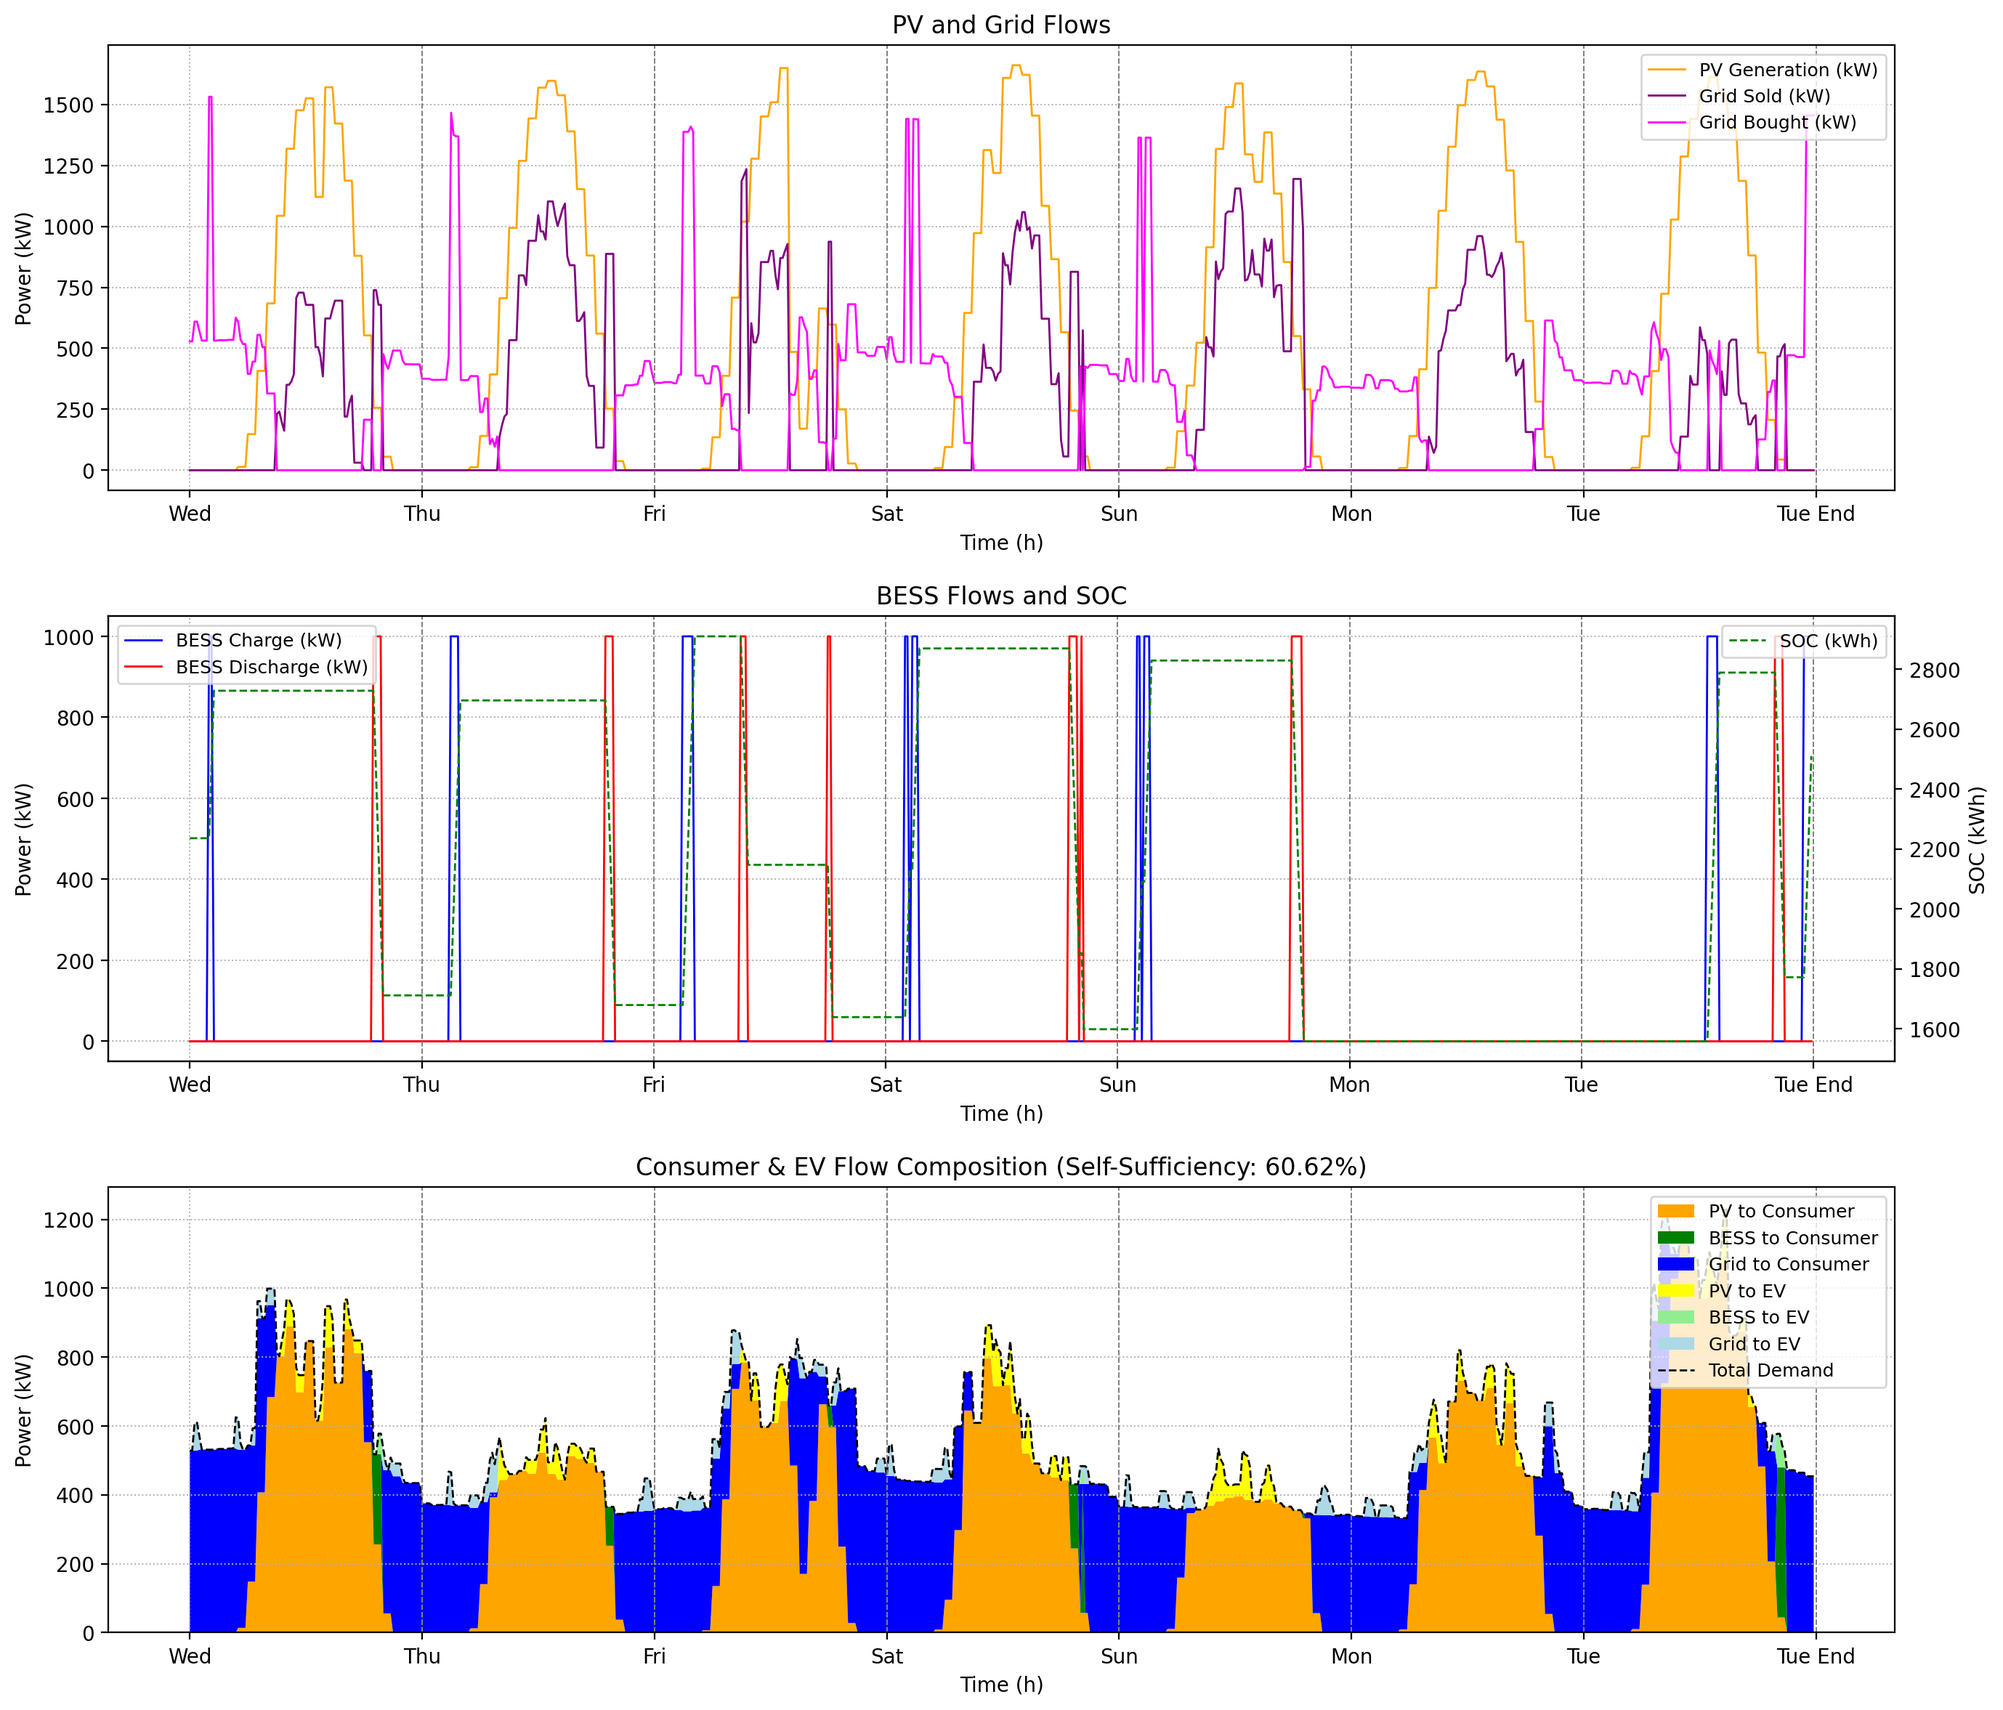
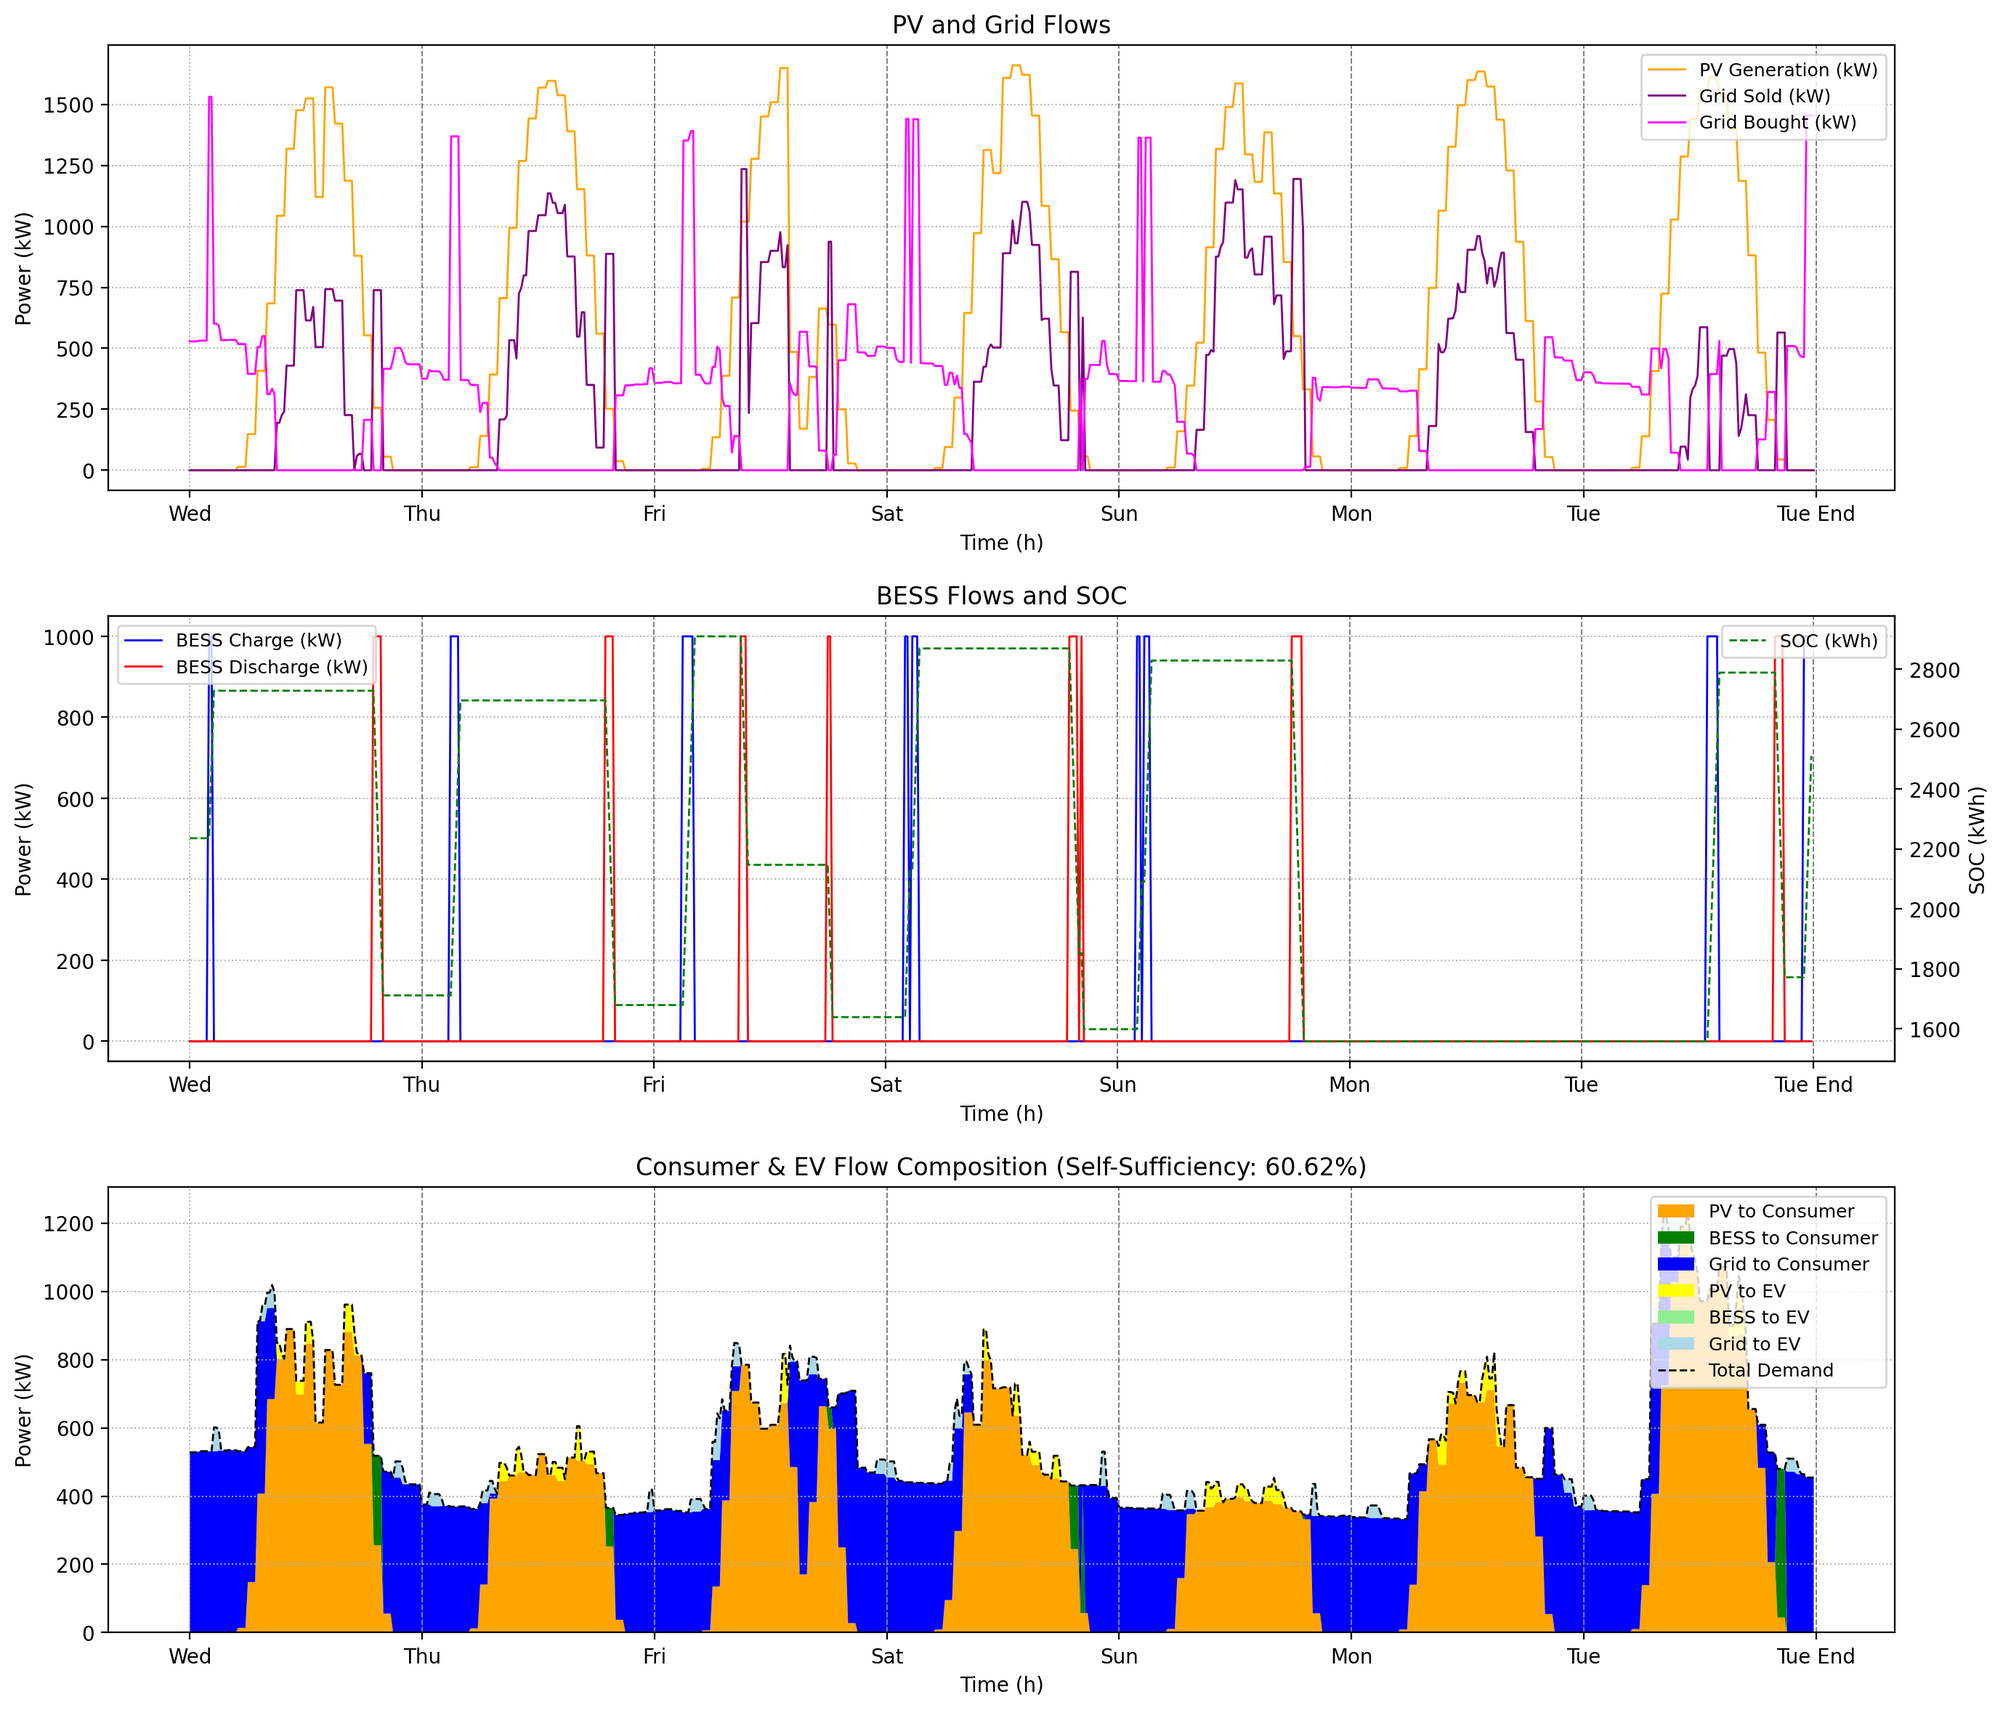
MPC still not working properly

diff --git a/Computing Files/Controller/mpc.py b/Computing Files/Controller/mpc.py
@@ -26,9 +26,10 @@ class MPC:
         self.soc_initial = params['SOC_Initial']
         self.delta_t = delta_t
         self.bess_percent_limit = params['BESS_limit']
-        self.converter_efficiency = params.get('CONVERTER_EFFICIENCY', 0.98)
-        # Damper coefficient (€/kW-change) for smoothing power transitions (from constants; default 0.01 if missing)
-        self.damper_coefficient = params.get('DAMPER_COEFFICIENT', 0.01)
+        self.converter_efficiency = params.get('CONVERTER_EFFICIENCY')
+        # Damper coefficient (€/kW-change) for smoothing power transitions (from constants; default 0.001 if missing)
+        self.damper_coefficient = params.get('DAMPER_COEFFICIENT')
+
 
     def predict(self, soc, pv_forecast, demand_forecast, ev_forecast, buy_forecast, sell_forecast, lcoe_pv, pi_ev, pi_consumer, horizon, start_dt):
         # Use actual simulation start date for snapshots
@@ -53,11 +54,11 @@ class MPC:
         n.add("Bus", "BESS", carrier='DC')
 
         # PV generator (PV bus)
-        pv_nom = max(pv_forecast)
-        pv_max = np.max(pv_forecast)
-        if pv_max == 0:
-            pv_max = 1
-        n.add("Generator", "PV", bus="PV", p_nom=pv_nom, p_max_pu=pv_forecast/pv_max, marginal_cost=0)
+        pv_nom = np.max(pv_forecast)
+        if pv_nom == 0:
+            pv_nom = 1
+        p_max_pu = np.array(pv_forecast) / pv_nom
+        n.add("Generator", "PV", bus="PV", p_nom=pv_nom, p_max_pu=p_max_pu, marginal_cost=0)
 
         # BESS StorageUnit (BESS bus)
         if self.bess_power_limit > 0 and self.bess_capacity > 0:
@@ -70,10 +71,7 @@ class MPC:
                   state_of_charge_initial=soc)
 
         # Links between buses
-        # Charge BESS from AC side (so grid-to-BESS passes via AC)
         n.add("Link", "AC_to_BESS", bus0="AC", bus1="BESS", p_nom=self.bess_power_limit, efficiency=self.eta_charge, marginal_cost=0, carrier='AC')
-
-        n.add("Link", "PV_to_BESS", bus0="PV", bus1="BESS", p_nom=self.bess_power_limit, efficiency=self.eta_charge, marginal_cost=0, carrier='DC')
         n.add("Link", "BESS_to_AC", bus0="BESS", bus1="AC", p_nom=self.bess_power_limit, efficiency=self.eta_discharge, marginal_cost=0, carrier='AC')
         n.add("Link", "PV_to_AC", bus0="PV", bus1="AC", p_nom=pv_nom, efficiency=self.converter_efficiency, marginal_cost=0, carrier='AC')
 
@@ -88,23 +86,44 @@ class MPC:
         n.links_t.marginal_cost["Grid_Export"] = -pd.Series(sell_forecast, index=n.snapshots)
         n.generators_t.marginal_cost["Grid_Source"] = pd.Series(buy_forecast, index=n.snapshots)
 
+        # --- DEBUG: Print key marginal costs and link parameters ---
+        try:
+            print("PV marginal cost:", n.generators.loc["PV", "marginal_cost"])
+            print("Grid import marginal cost (first 5):", n.generators_t.marginal_cost["Grid_Source"].head())
+            print("Grid export marginal cost (first 5):", n.links_t.marginal_cost["Grid_Export"].head())
+            print("PV_to_AC link p_nom:", n.links.loc["PV_to_AC", "p_nom"], "efficiency:", n.links.loc["PV_to_AC", "efficiency"])
+            print("AC_to_BESS link p_nom:", n.links.loc["AC_to_BESS", "p_nom"], "efficiency:", n.links.loc["AC_to_BESS", "efficiency"])
+            print("BESS_to_AC link p_nom:", n.links.loc["BESS_to_AC", "p_nom"], "efficiency:", n.links.loc["BESS_to_AC", "efficiency"])
+            print("Initial SOC:", soc, "BESS capacity:", self.bess_capacity)
+        except Exception as e:
+            print(f"DEBUG print error: {e}")
+        # --- Mutual exclusivity for grid import/export ---
+        def add_mutual_exclusivity_constraint(network):
+            m = network.model
+            import pyomo.environ as po
+            m.grid_import_bin = po.Var(network.snapshots, within=po.Binary)
+            big_M_import = max_grid_import
+            big_M_export = max_grid_export
+            for t in network.snapshots:
+                m.add_constraint(m["Link-p"]["Grid_Import"][t] <= big_M_import * m.grid_import_bin[t],
+                                 name=f"GridImportBin_{t}")
+                m.add_constraint(m["Link-p"]["Grid_Export"][t] <= big_M_export * (1 - m.grid_import_bin[t]),
+                                 name=f"GridExportBin_{t}")
+
+        n.optimize.create_model()
+        try:
+            add_mutual_exclusivity_constraint(n)
+        except Exception as e:
+            print(f"Warning: Could not add grid import/export mutual exclusivity constraint: {e}")
+
         # Loads: keep Consumer and EV on AC side (EV chargers are typically AC-coupled externally)
         n.add("Load", "Consumer", bus="AC", p_set=0, marginal_cost=0)
         n.add("Load", "EV", bus="AC", p_set=0, marginal_cost=0)
         n.loads_t.p_set.loc[:, "Consumer"] = demand_forecast
         n.loads_t.p_set.loc[:, "EV"] = ev_forecast
 
-        # Build model
-        n.optimize.create_model()
-
         # Explicit balances for clarity (PyPSA already ensures nodal balances internally)
         try:
-            if "PV" in n.generators.index and "PV_to_BESS" in n.links.index and "PV_to_AC" in n.links.index:
-                pv_gen_var = n.model["Generator-p"]["PV"]
-                pv_to_bess_var = n.model["Link-p"]["PV_to_BESS"]
-                pv_to_ac_var = n.model["Link-p"]["PV_to_AC"]
-                n.model.add_constraints(pv_gen_var == pv_to_bess_var + pv_to_ac_var, name="DC_PV_Balance")
-
             if "PV_to_AC" in n.links.index and "BESS_to_AC" in n.links.index and "AC_to_BESS" in n.links.index:
                 pv_to_ac_var = n.model["Link-p"]["PV_to_AC"]
                 bess_to_ac_var = n.model["Link-p"]["BESS_to_AC"]
@@ -113,16 +132,13 @@ class MPC:
                 consumer_load_var = n.model["Load-p"]["Consumer"]
                 ev_load_var = n.model["Load-p"]["EV"]
                 ac_to_bess_var = n.model["Link-p"]["AC_to_BESS"]
-                # AC balance: supply (PV_to_AC + BESS_to_AC + Grid_Import) = demand (Consumer + EV + Grid_Export + AC_to_BESS)
                 n.model.add_constraints(pv_to_ac_var + bess_to_ac_var + grid_import_var == consumer_load_var + ev_load_var + grid_export_var + ac_to_bess_var, name="AC_Balance")
         except Exception as e:
             print(f"Warning: Could not add explicit balance constraints: {e}")
 
         # Add artificial damper (power-change penalty) to smooth BESS and Grid imports
         try:
-            # Penalize changes on link flows that represent BESS charge/discharge on AC side
             if "Link-p" in n.model:
-                # BESS discharge to AC
                 if "BESS_to_AC" in n.links.index:
                     bess_to_ac_p = n.model["Link-p"]["BESS_to_AC"]
                     b2a_pos = n.model.add_variables(lower=0, name="B2A_delta_pos", coords=[n.snapshots])
@@ -136,7 +152,6 @@ class MPC:
                         )
                     n.model.objective += self.damper_coefficient * (b2a_pos.sum() + b2a_neg.sum())
 
-                # BESS charge from AC
                 if "AC_to_BESS" in n.links.index:
                     ac_to_bess_p = n.model["Link-p"]["AC_to_BESS"]
                     a2b_pos = n.model.add_variables(lower=0, name="A2B_delta_pos", coords=[n.snapshots])
@@ -150,7 +165,6 @@ class MPC:
                         )
                     n.model.objective += self.damper_coefficient * (a2b_pos.sum() + a2b_neg.sum())
 
-            # Grid import change penalty (Link-p for Grid_Import)
             if "Grid_Import" in n.links.index and "Link-p" in n.model:
                 grid_imp_p = n.model["Link-p"]["Grid_Import"]
                 grid_delta_pos = n.model.add_variables(lower=0, name="Grid_import_delta_pos", coords=[n.snapshots])
@@ -185,57 +199,40 @@ class MPC:
             grid_export = 0
             consumer_load = demand_forecast[0]
             ev_load = ev_forecast[0]
-            grid_to_bess = 0
-            pv_to_bess = 0
+            ac_to_bess = 0
+            dc_to_ac_flow = 0
+            pv_bess_to_consumer = 0
+            pv_bess_to_ev = 0
+            pv_bess_to_grid = 0
+            grid_to_consumer = 0
+            grid_to_ev = 0
+            ev_renewable_share = 0
+            ev_revenue = 0
         else:
-            # Extract generator/storage
-            if "PV" in getattr(n.generators_t, "p", pd.DataFrame()).columns:
-                pv_gen = n.generators_t.p["PV"].values[0]
-            else:
-                pv_gen = 0
-            if "BESS" in getattr(n.storage_units_t, "p", pd.DataFrame()).columns:
-                bess_dispatch = n.storage_units_t.p["BESS"].values[0]
-                soc_next = n.storage_units_t.state_of_charge["BESS"].values[0]
-            else:
-                bess_dispatch = 0
-                soc_next = soc
+            pv_gen = n.generators_t.p["PV"].values[0] if "PV" in n.generators_t.p.columns else 0
+            bess_dispatch = n.storage_units_t.p["BESS"].values[0] if "BESS" in n.storage_units_t.p.columns else 0
+            soc_next = n.storage_units_t.state_of_charge["BESS"].values[0] if "BESS" in n.storage_units_t.state_of_charge.columns else soc
+            pv_to_ac = n.links_t.p0["PV_to_AC"].values[0] if "PV_to_AC" in n.links_t.p0.columns else 0
+            bess_to_ac = n.links_t.p0["BESS_to_AC"].values[0] if "BESS_to_AC" in n.links_t.p0.columns else 0
+            grid_import = n.links_t.p0["Grid_Import"].values[0] if "Grid_Import" in n.links_t.p0.columns else 0
+            grid_export = n.links_t.p0["Grid_Export"].values[0] if "Grid_Export" in n.links_t.p0.columns else 0
+            ac_to_bess = n.links_t.p0["AC_to_BESS"].values[0] if "AC_to_BESS" in n.links_t.p0.columns else 0
+            consumer_load = n.loads_t.p["Consumer"].values[0] if "Consumer" in n.loads_t.p.columns else 0
+            ev_load = n.loads_t.p["EV"].values[0] if "EV" in n.loads_t.p.columns else 0
 
-            # Extract links (guard missing columns)
-            cols_p0 = getattr(n.links_t, "p0", pd.DataFrame()).columns
-            pv_to_ac = n.links_t.p0["PV_to_AC"].values[0] if "PV_to_AC" in cols_p0 else 0
-            bess_to_ac = n.links_t.p0["BESS_to_AC"].values[0] if "BESS_to_AC" in cols_p0 else 0
-            grid_import = n.links_t.p0["Grid_Import"].values[0] if "Grid_Import" in cols_p0 else 0
-            grid_export = n.links_t.p0["Grid_Export"].values[0] if "Grid_Export" in cols_p0 else 0
-            ac_to_bess = n.links_t.p0["AC_to_BESS"].values[0] if "AC_to_BESS" in cols_p0 else 0
-            pv_to_bess = n.links_t.p0["PV_to_BESS"].values[0] if "PV_to_BESS" in cols_p0 else 0
-
-            # Extract loads
-            cols_load = getattr(n.loads_t, "p", pd.DataFrame()).columns
-            consumer_load = n.loads_t.p["Consumer"].values[0] if "Consumer" in cols_load else 0
-            ev_load = n.loads_t.p["EV"].values[0] if "EV" in cols_load else 0
-
-        # Balance diagnostics (AC side only; DC is enforced by DC_PV_Balance)
-        dc_to_ac_flow = max(pv_to_ac + bess_to_ac, 0)
-        ac_balance = pv_to_ac + bess_to_ac + grid_import - consumer_load - ev_load - grid_export - ac_to_bess
-        balance_tolerance = 0.1
-        if abs(ac_balance) > balance_tolerance:
-            print(f"⚠ AC balance mismatch: {ac_balance:.3f} kW")
-
-        # Map DC→AC renewable flow to uses on AC bus
-        pv_bess_to_consumer = min(dc_to_ac_flow, consumer_load)
-        pv_bess_to_ev = min(max(0, dc_to_ac_flow - pv_bess_to_consumer), ev_load)
-        pv_bess_to_grid = max(0, dc_to_ac_flow - pv_bess_to_consumer - pv_bess_to_ev)
-        grid_to_consumer = max(0, consumer_load - pv_bess_to_consumer)
-        grid_to_ev = max(0, ev_load - pv_bess_to_ev)
-
-        ev_renewable_share = pv_bess_to_ev / ev_load if ev_load > 0 else 0
-        ev_revenue = pv_bess_to_ev * pi_ev
+            dc_to_ac_flow = pv_to_ac + bess_to_ac
+            pv_bess_to_consumer = min(dc_to_ac_flow, consumer_load)
+            pv_bess_to_ev = min(max(0, dc_to_ac_flow - pv_bess_to_consumer), ev_load)
+            pv_bess_to_grid = max(0, dc_to_ac_flow - pv_bess_to_consumer - pv_bess_to_ev)
+            grid_to_consumer = max(0, consumer_load - pv_bess_to_consumer)
+            grid_to_ev = max(0, ev_load - pv_bess_to_ev)
+            ev_renewable_share = pv_bess_to_ev / ev_load if ev_load > 0 else 0
+            ev_revenue = pv_bess_to_ev * pi_ev
 
         return {
             'P_BESS': bess_dispatch,
             'SOC_next': soc_next,
             'P_BESS_discharge': np.maximum(bess_dispatch, 0),
-            # Maintain key name for compatibility; now represents AC_to_BESS
             'P_grid_to_bess': ac_to_bess,
             'P_BESS_charge': np.abs(np.minimum(bess_dispatch, 0)),
             'P_PV_gen': pv_gen,

diff --git a/Computing Files/main_Optimization.py b/Computing Files/main_Optimization.py
@@ -142,11 +142,25 @@ for t in range(n_steps):
     soc_actual[t + 1] = control['SOC_next']
     P_PV_gen[t] = control['P_PV_gen']
     
+
 # MPC loop completed
 mpc_complete_time = time.time()
 print(f"MPC optimization completed in {mpc_complete_time - data_load_time:.2f} seconds")
 print(f"Average time per timestep: {(mpc_complete_time - data_load_time)/n_steps:.3f} seconds")
-    
+
+# --- DEBUG: Print first 48 values of key arrays for inspection ---
+print("\n--- DEBUG: First 48 values of key dispatch/result arrays ---")
+print("P_PV_consumer_vals:", P_PV_consumer_vals[:48])
+print("P_BESS_charge_vals:", P_BESS_charge_vals[:48])
+print("P_BESS_discharge_vals:", P_BESS_discharge_vals[:48])
+print("P_grid_consumer_vals:", P_grid_consumer_vals[:48])
+print("P_grid_import_vals:", P_grid_import_vals[:48])
+print("SOC_vals:", soc_actual[:49])  # 49 to show initial + 48 steps
+print("P_PV_gen:", P_PV_gen[:48])
+print("P_PV_grid_vals:", P_PV_grid_vals[:48])
+print("P_Grid_to_BESS_vals:", P_Grid_to_BESS_vals[:48])
+print("----------------------------------------------------------\n")
+
 # Compile results for post-processing and plotting
 results = {
     'P_PV_consumer_vals': P_PV_consumer_vals,
